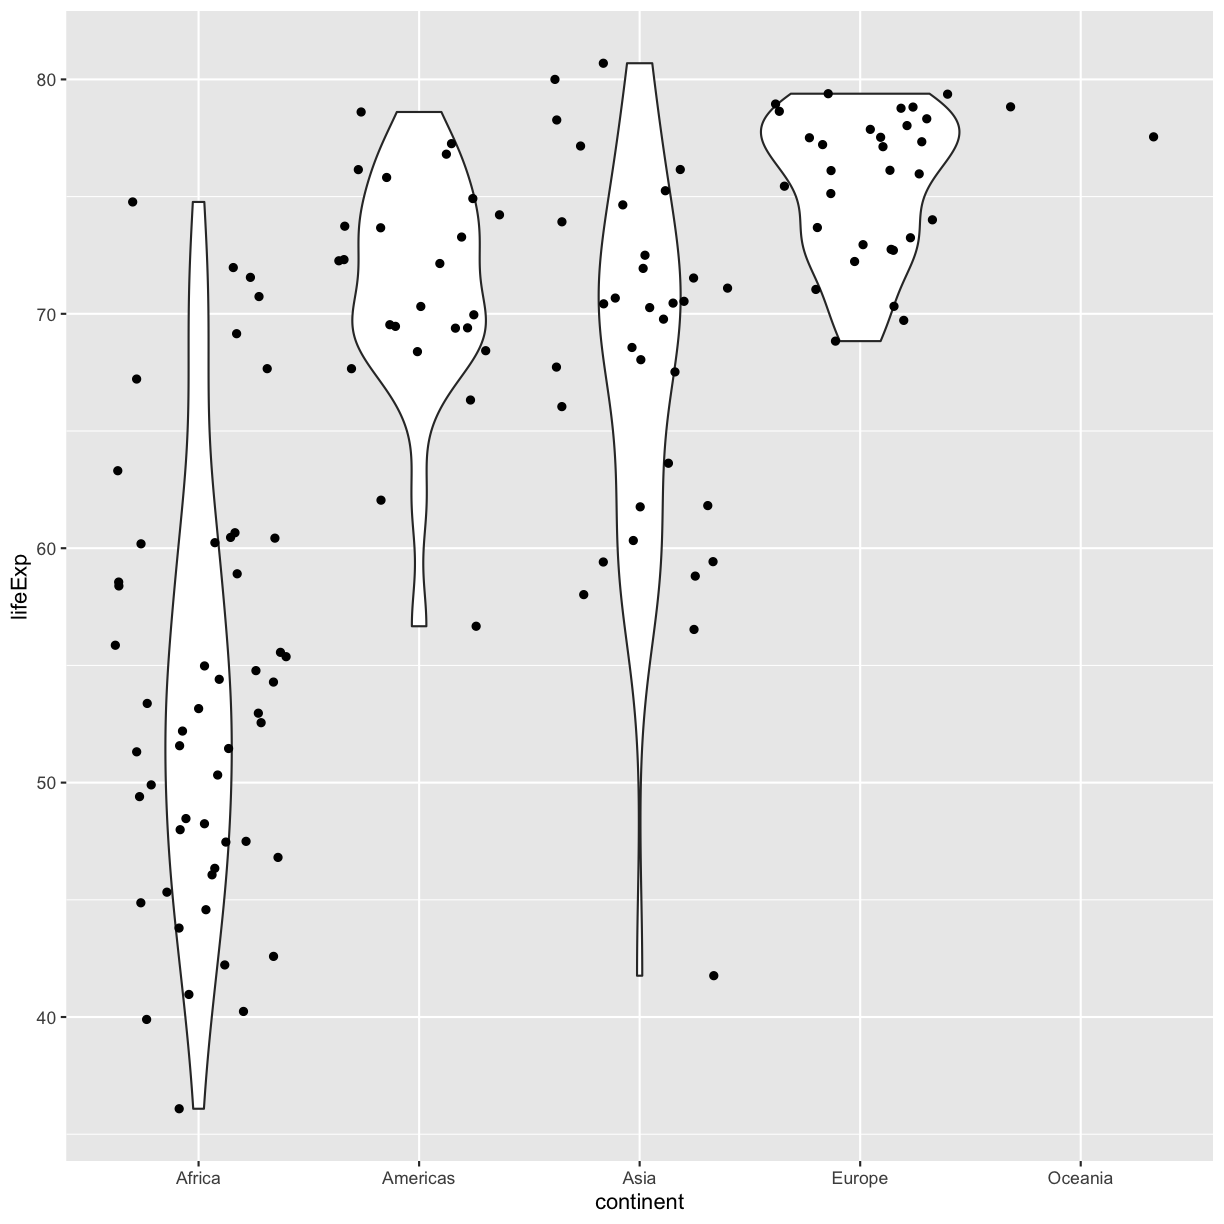
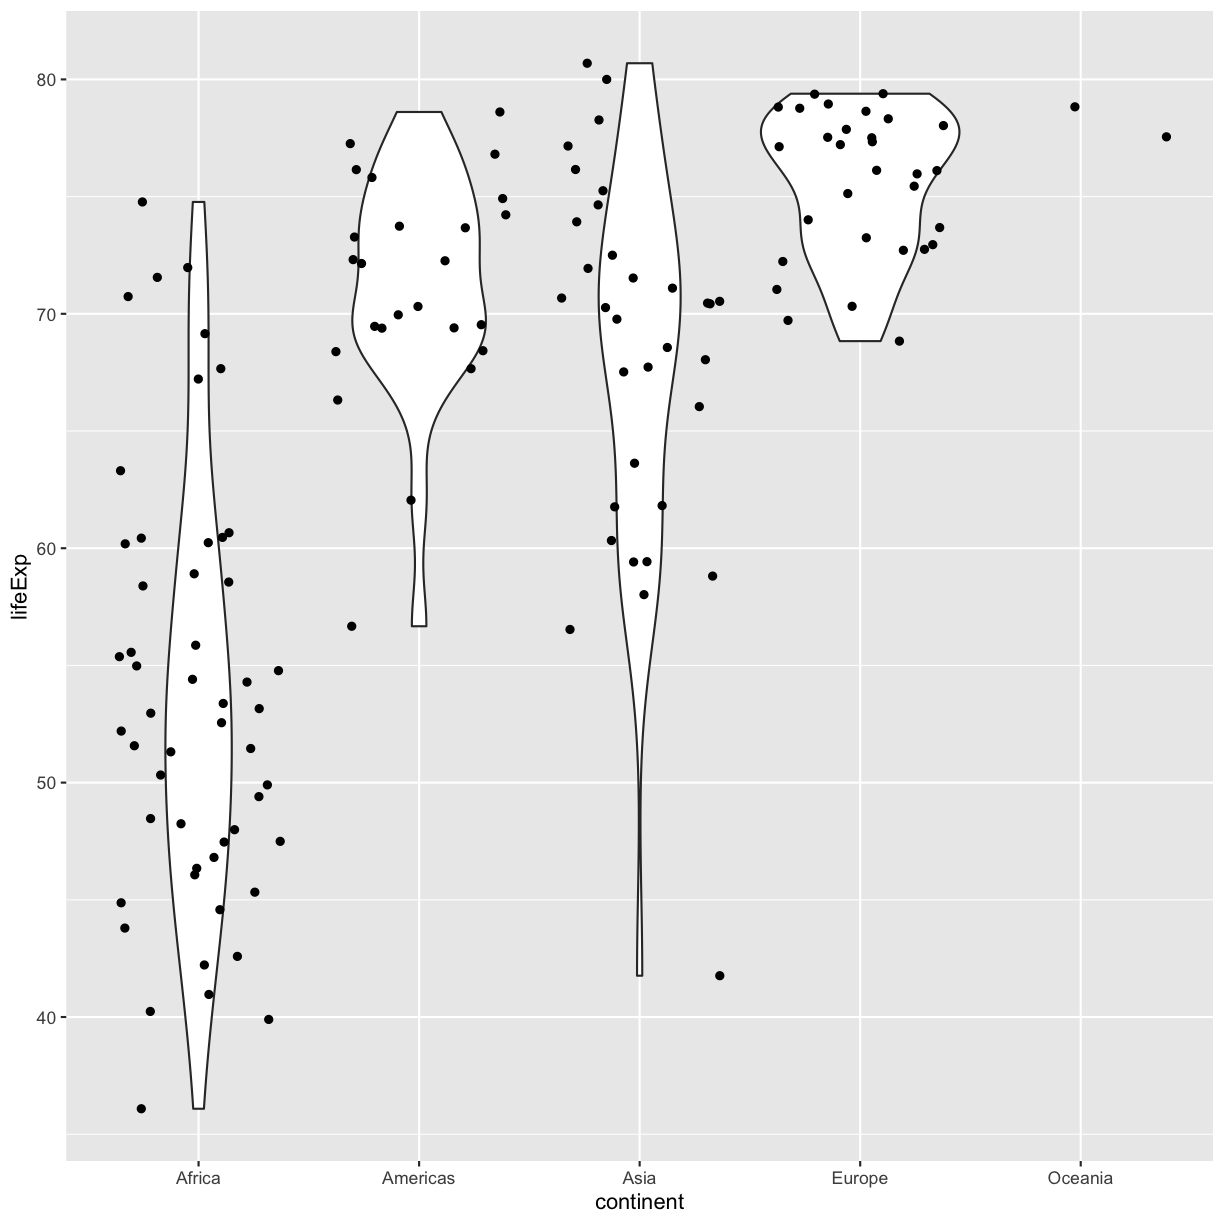
Fix missing gapminder data

diff --git a/_episodes/01-r-plotting.md b/_episodes/01-r-plotting.md
@@ -898,6 +898,21 @@ In the first plot, we looked at a smaller slice of a large dataset. To gain a be
 
 To start, we will read in the data without using the interactive RStudio file navigation.
 
+
+~~~
+
+── Column specification ───────────────────────────────────────────────────────────────────────────
+cols(
+  country = col_character(),
+  year = col_double(),
+  pop = col_double(),
+  continent = col_character(),
+  lifeExp = col_double(),
+  gdpPercap = col_double()
+)
+~~~
+{: .output}
+
 > ## Exercise: Read in your own data
 >
 > What argument (including file path) should be provided in the below code to read in the full dataset?
@@ -915,13 +930,6 @@ To start, we will read in the data without using the interactive RStudio file na
 >> gapminder_data <- read_csv("gapminder_data.csv")
 >> ~~~
 >> {: .language-r}
->> 
->> 
->> 
->> ~~~
->> Error: 'gapminder_data.csv' does not exist in current working directory ('/Users/kelly/projects/carpentries/umswc-curriculum/_episodes_rmd').
->> ~~~
->> {: .error}
 > {: .solution}
 {: .challenge}
 
@@ -1005,12 +1013,7 @@ Sometimes plots like this are called "spaghetti plots" because all the lines loo
 > > ~~~
 > > {: .language-r}
 > > 
-> > 
-> > 
-> > ~~~
-> > Error in ggplot(data = gapminder_data): object 'gapminder_data' not found
-> > ~~~
-> > {: .error}
+> > <img src="../fig/rmd-01-gapminderMoreLines-1.png" title="plot of chunk gapminderMoreLines" alt="plot of chunk gapminderMoreLines" width="612" style="display: block; margin: auto;" />
 > > (China and India are the two Asian countries that have experience massive population growth from 1952-2007.)
 > {: .solution}
 {: .challenge}
@@ -1504,12 +1507,7 @@ library(gganimate)
 >> ~~~
 >> {: .language-r}
 >> 
->> 
->> 
->> ~~~
->> Error in ggplot(data = gapminder_data): object 'gapminder_data' not found
->> ~~~
->> {: .error}
+>> <img src="../fig/rmd-01-hansGraphStaticSolution-1.png" title="plot of chunk hansGraphStaticSolution" alt="plot of chunk hansGraphStaticSolution" width="612" style="display: block; margin: auto;" />
 >{: .solution}
 
 > **Part 2:**
@@ -1524,29 +1522,12 @@ library(gganimate)
 >>  scale_color_brewer(palette = "Set1") +
 >>  labs(x = "GDP Per Capita", y = "Life Expectancy", color= "Continent", size="Population (in millions)")+
 >> theme_classic()
->> ~~~
->> {: .language-r}
 >> 
->> 
->> 
->> ~~~
->> Error in ggplot(data = gapminder_data): object 'gapminder_data' not found
->> ~~~
->> {: .error}
->> 
->> 
->> 
->> ~~~
 >> staticHansPlot
 >> ~~~
 >> {: .language-r}
 >> 
->> 
->> 
->> ~~~
->> Error in eval(expr, envir, enclos): object 'staticHansPlot' not found
->> ~~~
->> {: .error}
+>> <img src="../fig/rmd-01-hansGraphStaticPrettySolution-1.png" title="plot of chunk hansGraphStaticPrettySolution" alt="plot of chunk hansGraphStaticPrettySolution" width="612" style="display: block; margin: auto;" />
 > {: .solution}
 {: .challenge}
 
@@ -1558,29 +1539,12 @@ library(gganimate)
   scale_color_brewer(palette = "Set1") +
   labs(x = "GDP Per Capita", y = "Life Expectancy", color= "Continent", size="Population (in millions)")+
  theme_classic()
-~~~
-{: .language-r}
 
-
-
-~~~
-Error in ggplot(data = gapminder_data): object 'gapminder_data' not found
-~~~
-{: .error}
-
-
-
-~~~
  staticHansPlot
 ~~~
 {: .language-r}
 
-
-
-~~~
-Error in eval(expr, envir, enclos): object 'staticHansPlot' not found
-~~~
-{: .error}
+<img src="../fig/rmd-01-hansGraphStatic-1.png" title="plot of chunk hansGraphStatic" alt="plot of chunk hansGraphStatic" width="612" style="display: block; margin: auto;" />
 
 Ok, now we're getting somewhere! But right now we're plotting all of the years of our dataset on one plot - now we want to animate the plot so each year shows up on its own. This is where `gganimate` comes in! We want to add the `transition_states()` function to our plot.
 
@@ -1595,7 +1559,7 @@ animatedHansPlot <- staticHansPlot +
 
 
 ~~~
-Error in eval(expr, envir, enclos): object 'staticHansPlot' not found
+Error in transition_states(year, transition_length = 1, state_length = 1): could not find function "transition_states"
 ~~~
 {: .error}
 
